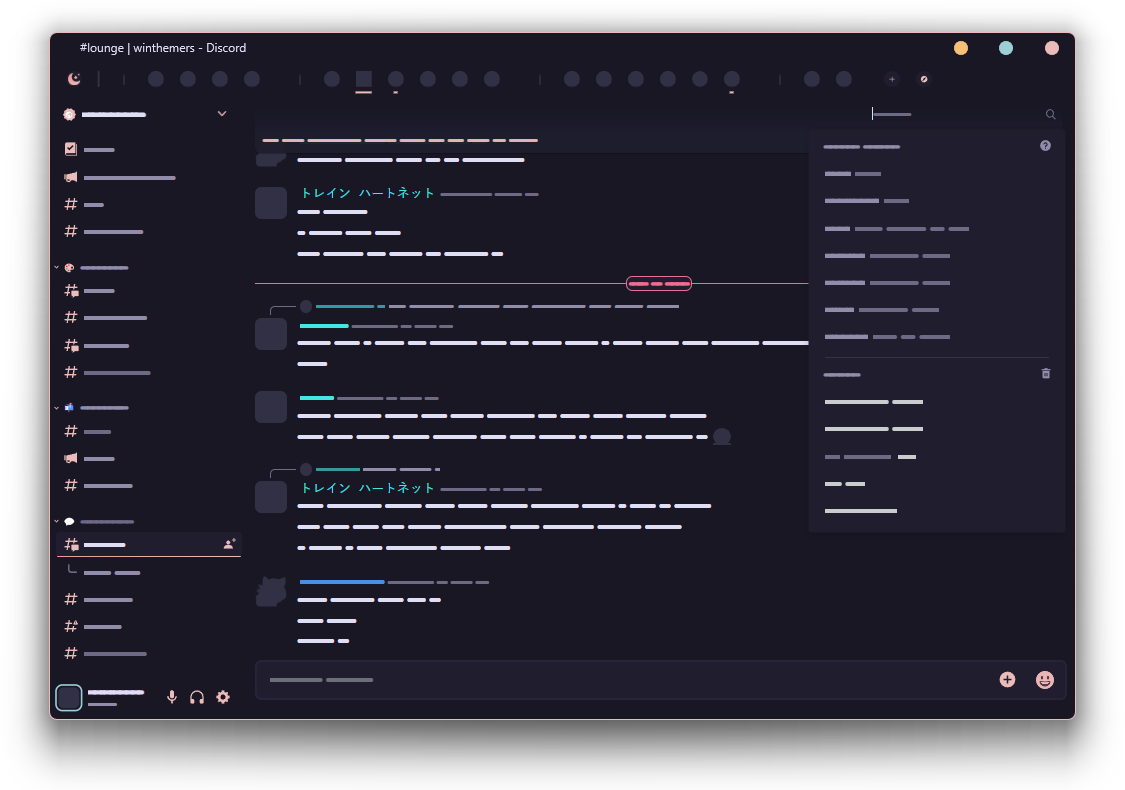
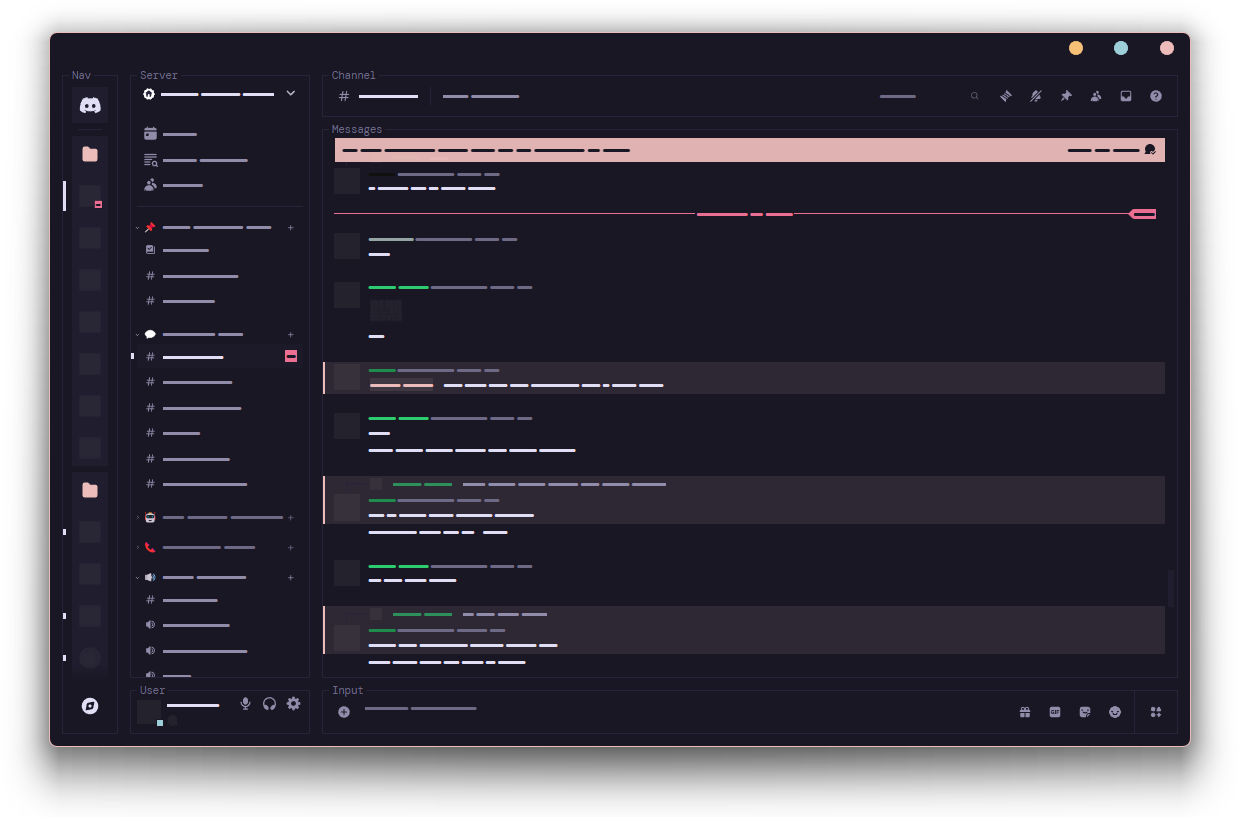
update discord

diff --git a/discord/system24-mod.theme.css b/discord/system24-mod.theme.css
@@ -1,0 +1,128 @@
+/**
+ * @name system24
+ * @description A tui-style discord theme.
+ * @author refact0r
+ * @version 1.0.0
+ * @invite nz87hXyvcy
+ * @website https://github.com/refact0r/system24
+ * @source https://github.com/refact0r/system24/blob/master/system24.theme.css
+ * @authorId 508863359777505290
+ * @authorLink https://www.refact0r.dev
+*/
+
+/* import theme modules */
+@import url('https://refact0r.github.io/system24/src/main.css'); /* main theme css. DO NOT REMOVE */
+@import url('https://refact0r.github.io/system24/src/unrounding.css'); /* gets rid of all rounded corners. remove if you want rounded corners. */
+
+/* customize things here */
+:root {
+	--font: 'DM Mono'; /* UI font name. it must be installed on your system. */
+	letter-spacing: 0; /* decreases letter spacing for better readability. */
+	font-weight: 400; /* UI font weight. */
+	--label-font-weight: 400; /* font weight for panel labels. */
+	--corner-text: 'system24'; /* custom text to display in the corner. only works on windows. */
+	--pad: 16px; /* padding between panels. */
+	--txt-pad: 10px; /* padding inside panels to prevent labels from clipping */
+	--panel-roundness: 0px; /* corner roundness of panels. ONLY WORKS IF unrounding.css IS REMOVED (see above). */
+
+	/* background colors */
+	--bg-0: #191724; /* main background color. */
+	--bg-1: #1f1d2e; /* background color for secondary elements like code blocks, embeds, etc. */
+	--bg-2: #26233a; /* color of neutral buttons. */
+	--bg-3: #26233a; /* color of neutral buttons when hovered. */
+
+	/* state modifiers */
+	--hover: color-mix(in srgb, var(--bg-3), transparent 60%); /* color of hovered elements. */
+	--active: color-mix(in srgb, var(--bg-3), transparent 80%); /* color of elements when clicked. */
+	--selected: var(--active); /* color of selected elements. */
+
+	/* text colors */
+	--txt-dark: var(--bg-0); /* color of dark text on colored backgrounds. */
+	--txt-link: var(--rose); /* color of links. */
+	--txt-0: #ffffff; /* color of bright/white text. */
+	--txt-1: #e0def4; /* main text color. */
+	--txt-2: #908caa; /* color of secondary text like channel list. */
+	--txt-3: #6e6a86; /* color of muted text. */
+
+	/* accent colors */
+	--acc-0: var(--rose); /* main accent color. */
+	--acc-1: var(--rose-1); /* color of accent buttons when hovered. */
+	--acc-2: var(--rose-2); /* color of accent buttons when clicked. */
+
+	/* borders */
+	--border-width: 1px; /* panel border thickness. */
+	--border-color: var(--bg-2); /* panel border color. */
+	--border-hover-color: var(--acc-0); /* panel border color when hovered. */
+	--border-transition: 0.2s ease; /* panel border transition. */
+
+	/* status dot colors */
+	--online-dot: var(--green); /* color of online dot. */
+	--dnd-dot: var(--pink); /* color of do not disturb dot. */
+	--idle-dot: var(--yellow); /* color of idle dot. */
+	--streaming-dot: var(--purple); /* color of streaming dot. */
+
+	/* mention/ping and message colors */
+	--mention-txt: var(--acc-0); /* color of mention text. */
+	--mention-bg: color-mix(in oklch, var(--acc-0), transparent 90%); /* background highlight of mention text. */
+	--mention-overlay: color-mix(in oklch, var(--acc-0), transparent 90%); /* overlay color of messages that mention you. */
+	--mention-hover-overlay: color-mix(in oklch, var(--acc-0), transparent 95%); /* overlay color of messages that mention you when hovered. */
+	--reply-overlay: var(--active); /* overlay color of message you are replying to. */
+	--reply-hover-overlay: var(--hover); /* overlay color of message you are replying to when hovered. */
+
+	/* color shades */
+	--pink: oklch(69.77% 0.1565 4.22);
+	--pink-1: oklch(59.77% 0.1565 4.22);
+	--pink-2: oklch(49.77% 0.1565 4.22);
+	--purple: oklch(77.6% 0.0945 304.99);
+	--purple-1: oklch(67.6% 0.0945 304.99);
+	--purple-2: oklch(57.6% 0.0945 304.99);
+	--cyan: oklch(52.77% 0.0793 227.72);
+	--yellow: oklch(84.29% 0.11 74.6);
+	--green: oklch(82.19% 0.0543 209.56);
+	--green-1: oklch(72.19% 0.0543 209.56);
+	--green-2: oklch(62.19% 0.0543 209.56);
+	--rose: oklch(83.63% 0.0544 21.14);
+	--rose-1: oklch(73.63% 0.0544 21.14);
+	--rose-2: oklch(63.63% 0.0544 21.14);
+}
+
+* {
+	font-size: 14px !important;
+	line-height: 1.4;
+}
+*:not(div[id*='message-content'] *) {
+	font-weight: 400;
+}
+div[id*='message-content'] h1::before {
+	content: "# ";
+}
+div[id*='message-content'] h2::before {
+	content: "## ";
+}
+div[id*='message-content'] h3::before {
+	content: "### ";
+}
+div[id*='message-content'] small::before {
+	content: "-# ";
+}
+[class^='sidebar_'] > [class^='container_']::after, 
+.container_fc4f04::after, 
+[class^='chatContent_'] > [class^='messagesWrapper_']::after, 
+[class^='panels_']::after, 
+[class^='form_'] [class^='channelTextArea_']::after, 
+.guilds_a4d4d9::after, [class^='membersWrap_']::after, 
+[class^='privateChannels_']::after, .container_a6d69a::after, 
+[class^='userPanelOuter_']::after, [class^='searchResultsWrap_']::after, 
+.scroller_fb4810::after, [class^='peopleColumn_']::after, 
+[class^='nowPlayingColumn_']::after {
+    text-transform: capitalize;
+}
+nav[class*='guilds'] div[class*='blobContainer'], 
+div[class*='closedFolderIconWrapper'] div[class*='icon'] {
+	scale: 0.6;
+}
+section[class*='title'] svg, 
+div[class*='channelBottomBarArea'] :is(svg, div[class*='spriteContainer']),
+nav[class*='container'] li[class*='containerDefault'] svg {
+	scale: 0.7;
+}

diff --git a/discord/README.md b/discord/README.md
@@ -1,2 +1,3 @@
 # link to theme:
-https://github.com/xcruxiex/themes/blob/master/themes-files/nocturnal.theme.css
+https://github.com/refact0r/system24/blob/master/system24.theme.css
+https://github.com/xcruxiex/themes/blob/master/themes-files/nocturnal.theme.css (old)

diff --git a/README.md b/README.md
@@ -31,7 +31,13 @@
 
 ### discord
 
+#### current
+
 ![](__screenshots/discord.png)
+
+#### old
+
+![](__screenshots/discord-old.png)
 
 ### explorer
 
